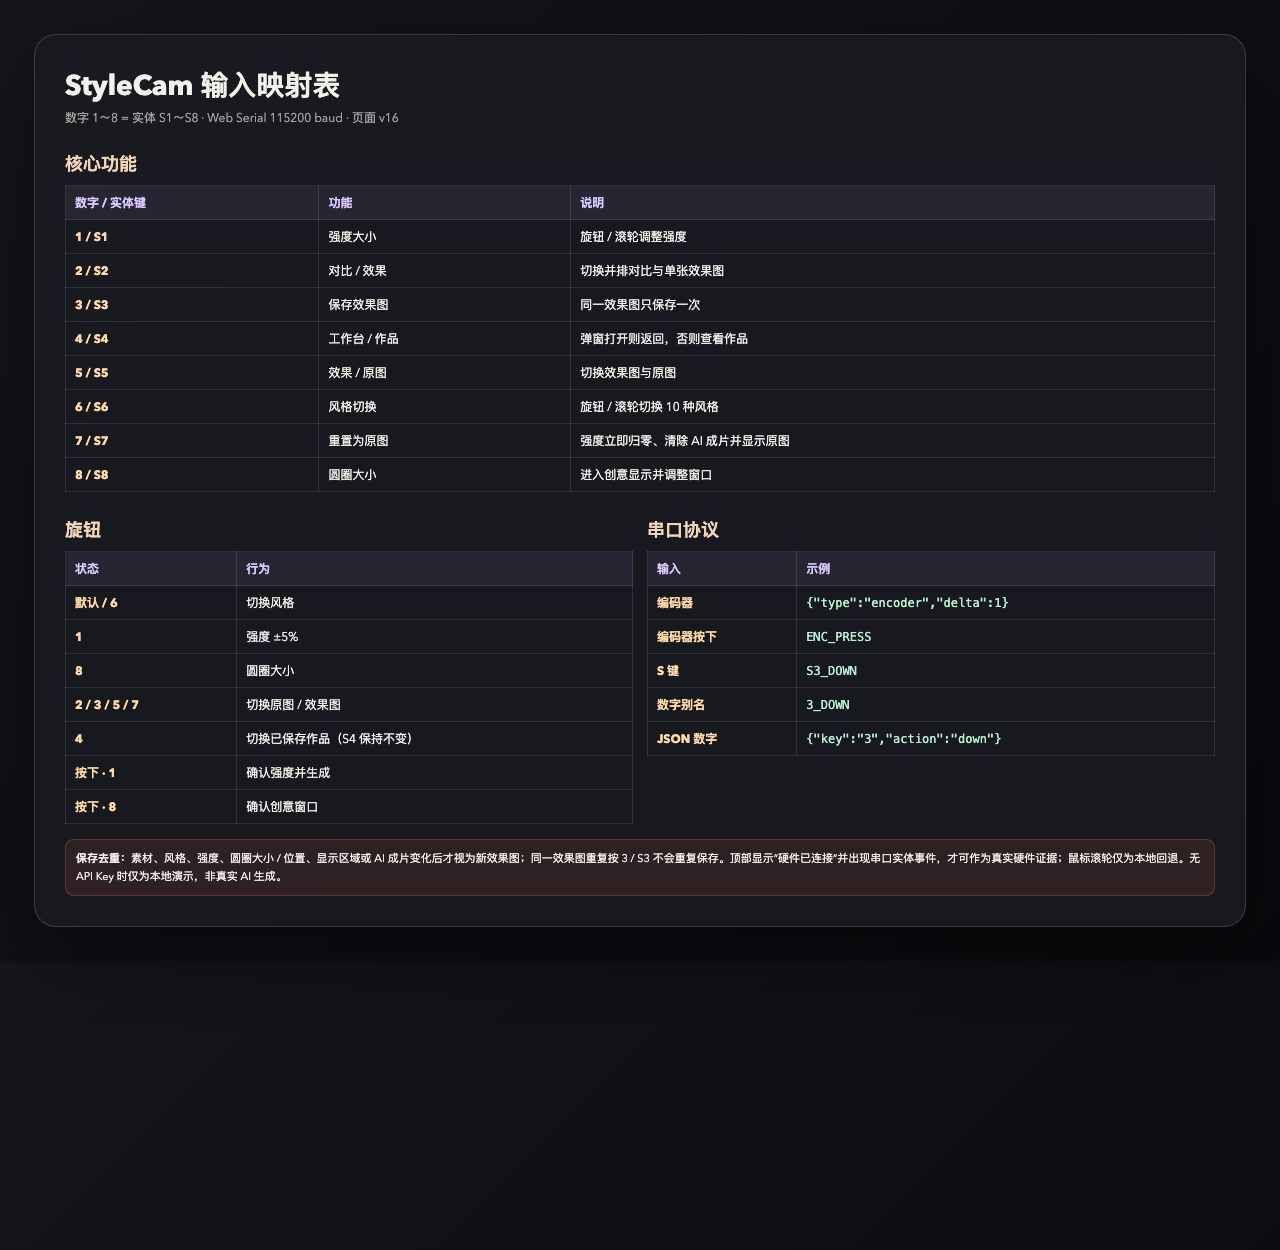
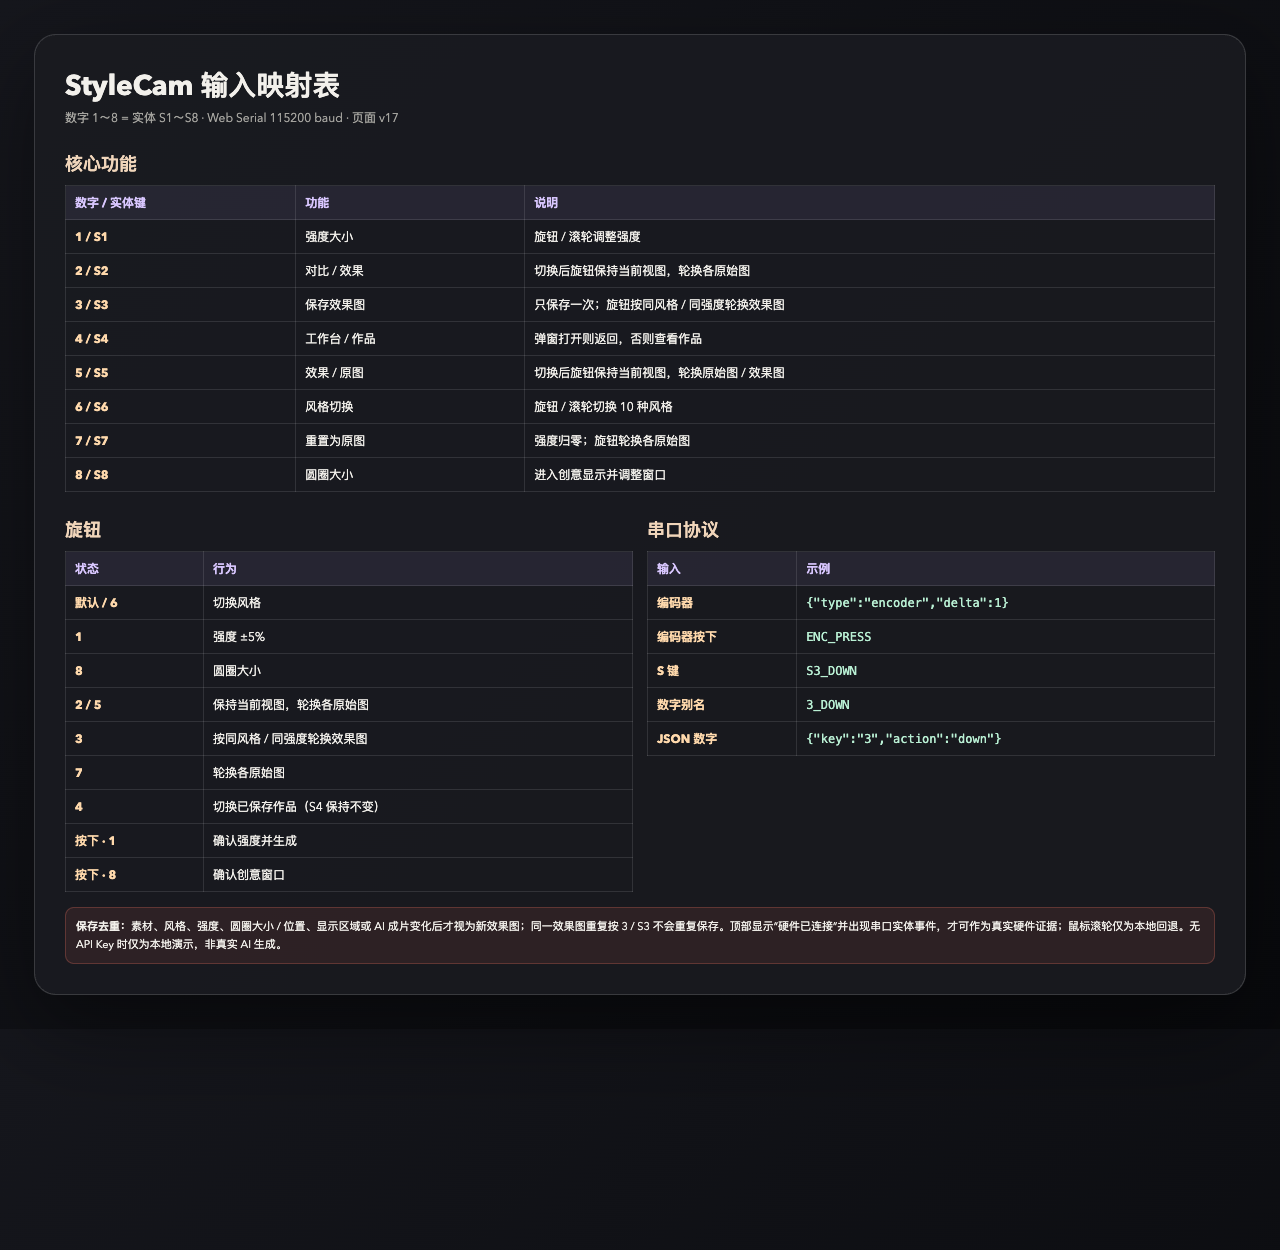
Add source browsing modes and tidy initial layout

Changed region(s): [[0.0312, 0.4368, 0.9688, 0.78], [0.4062, 0.156, 0.625, 0.4056], [0.2188, 0.156, 0.3125, 0.4056]]

diff --git a/app.js b/app.js
@@ -18,6 +18,7 @@
     { id: 'strength', name: '强度大小' },
     { id: 'style', name: '风格切换' },
     { id: 'radius', name: '圆圈大小' },
+    { id: 'source', name: '轮换照片' },
     { id: 'view', name: '原图 / 效果' },
     { id: 'works', name: '查看作品' }
   ];
@@ -120,6 +121,7 @@
   const works = [];
   let sourcesOrganized = false;
   let worksOrganized = false;
+  let inputCommandSerial = 0;
   const aiPipeline = {
     checking: true,
     available: false,
@@ -1261,13 +1263,13 @@
     state.strengthTarget = 0;
     state.strength = 0;
     setView('original');
-    setMode('view');
-    updateUi();
-    showTap('效果图已重置为原图');
+    setMode('source');
+    showTap('已重置为原图；旋钮轮换各张原始图');
   }
 
   function runInputCommand(command) {
     if (aiPipeline.generating && command !== 'works' && command !== 'compare' && command !== 'original') return;
+    const commandSerial = ++inputCommandSerial;
     switch (command) {
       case 'strength':
         setCreativeDisplay(false);
@@ -1277,19 +1279,23 @@
         break;
       case 'compare':
         setView(state.view === 'compare' ? 'effect' : 'compare');
-        setMode('view');
+        setMode('source');
+        showTap(state.view === 'compare' ? '旋钮轮换各张对比图' : '旋钮轮换各张效果图');
         if (elements.workDialog.open) flashComparison();
         break;
       case 'save':
-        if (elements.workDialog.open && dialogContext.work && !dialogContext.saved) {
-          void saveWork({ work: dialogContext.work }).then(work => {
-            if (work) setMode('view');
-          });
-        } else {
-          void saveWork().then(work => {
-            if (work) setMode('view');
-          });
-        }
+        const savePreview = elements.workDialog.open && dialogContext.work && !dialogContext.saved;
+        const savePromise = savePreview
+          ? saveWork({ work: dialogContext.work })
+          : saveWork();
+        void savePromise.then(work => {
+          if (!work || commandSerial !== inputCommandSerial) return;
+          if (elements.workDialog.open) elements.workDialog.close();
+          setCreativeDisplay(false);
+          setView('effect');
+          setMode('source');
+          showTap('已保存；旋钮按同风格 / 同强度轮换效果图');
+        });
         break;
       case 'works':
         // S4 keeps its dedicated behavior: close an open preview or browse works.
@@ -1307,7 +1313,8 @@
         break;
       case 'original':
         setView(state.view === 'original' ? 'effect' : 'original');
-        setMode('view');
+        setMode('source');
+        showTap(state.view === 'original' ? '旋钮轮换各张效果图' : '旋钮轮换各张原始图');
         break;
       case 'style':
         setCreativeDisplay(false);
@@ -1756,13 +1763,19 @@
     updateHardwareUi();
   }
 
+  function sourceModeLabel() {
+    if (state.view === 'compare') return '轮换对比图';
+    if (state.view === 'original') return '轮换原始图';
+    return '轮换效果图';
+  }
+
   function setMode(mode) {
     state.mode = mode;
     elements.functionGrid.querySelectorAll('.function-button').forEach(button => {
       button.classList.toggle('active', button.dataset.mode === mode);
     });
     const current = MODES.find(item => item.id === mode);
-    elements.modeName.textContent = current?.name ?? '';
+    elements.modeName.textContent = mode === 'source' ? sourceModeLabel() : current?.name ?? '';
     updateUi();
     if (mode === 'works') browseWorks(0);
   }
@@ -2091,6 +2104,7 @@
     installHardwareBridge();
     installStageDrag();
     installDialDrag();
+    setView('effect');
     setMode('style');
     updateCounts();
     void detectAiService();
@@ -2098,11 +2112,23 @@
     // Static portraits still pass through the same decode boundary before WebGL
     // upload, preventing INVALID_VALUE from incompletely decoded textures.
     const samples = await loadDefaultPortraits();
+    sourcesOrganized = true;
+    worksOrganized = true;
     samples.forEach(sample => addSource(sample));
     selectSource(0);
+    organizeSources();
+    sources.forEach(source => {
+      if (source.targetX === null || source.targetY === null) return;
+      source.x = source.targetX;
+      source.y = source.targetY;
+      source.angle = 0;
+      source.vx = 0;
+      source.vy = 0;
+      source.element.style.transform = `translate3d(${source.x.toFixed(2)}px, ${source.y.toFixed(2)}px, 0) rotate(0deg)`;
+    });
     updateUi();
     requestAnimationFrame(frame);
-    showTap('已载入 10 张默认肖像，可拖入照片替换');
+    showTap('已载入 10 张默认肖像，已保持整理状态');
   }
 
   void init();

diff --git a/docs/homework/input-mapping.html b/docs/homework/input-mapping.html
@@ -6,8 +6,8 @@ h1{margin:0 0 4px;font-size:28px}h2{margin:25px 0 8px;font-size:18px;color:#f0d5
 table{width:100%;border-collapse:collapse;margin-top:8px;font-size:12px}th,td{padding:8px 9px;border:1px solid rgba(255,255,255,.11);text-align:left}th{color:#d9c7ff;background:rgba(159,140,216,.10)}td:first-child{color:#ffd9ac;font-weight:700}
 .note{margin-top:15px;padding:10px;border-radius:9px;background:rgba(226,109,92,.10);border:1px solid rgba(226,109,92,.28);font-size:11px;line-height:1.6}.cols{display:grid;grid-template-columns:1fr 1fr;gap:14px}
 code{font-family:ui-monospace,Menlo,monospace;color:#b9f0d4}
-</style><div class="sheet"><h1>StyleCam 输入映射表</h1><div class="meta">数字 1～8 = 实体 S1～S8 · Web Serial 115200 baud · 页面 v16</div>
-<h2>核心功能</h2><table><tr><th>数字 / 实体键</th><th>功能</th><th>说明</th></tr><tr><td>1 / S1</td><td>强度大小</td><td>旋钮 / 滚轮调整强度</td></tr><tr><td>2 / S2</td><td>对比 / 效果</td><td>切换并排对比与单张效果图</td></tr><tr><td>3 / S3</td><td>保存效果图</td><td>同一效果图只保存一次</td></tr><tr><td>4 / S4</td><td>工作台 / 作品</td><td>弹窗打开则返回，否则查看作品</td></tr><tr><td>5 / S5</td><td>效果 / 原图</td><td>切换效果图与原图</td></tr><tr><td>6 / S6</td><td>风格切换</td><td>旋钮 / 滚轮切换 10 种风格</td></tr><tr><td>7 / S7</td><td>重置为原图</td><td>强度立即归零、清除 AI 成片并显示原图</td></tr><tr><td>8 / S8</td><td>圆圈大小</td><td>进入创意显示并调整窗口</td></tr></table>
-<div class="cols"><div><h2>旋钮</h2><table><tr><th>状态</th><th>行为</th></tr><tr><td>默认 / 6</td><td>切换风格</td></tr><tr><td>1</td><td>强度 ±5%</td></tr><tr><td>8</td><td>圆圈大小</td></tr><tr><td>2 / 3 / 5 / 7</td><td>切换原图 / 效果图</td></tr><tr><td>4</td><td>切换已保存作品（S4 保持不变）</td></tr><tr><td>按下 · 1</td><td>确认强度并生成</td></tr><tr><td>按下 · 8</td><td>确认创意窗口</td></tr></table></div>
+</style><div class="sheet"><h1>StyleCam 输入映射表</h1><div class="meta">数字 1～8 = 实体 S1～S8 · Web Serial 115200 baud · 页面 v17</div>
+<h2>核心功能</h2><table><tr><th>数字 / 实体键</th><th>功能</th><th>说明</th></tr><tr><td>1 / S1</td><td>强度大小</td><td>旋钮 / 滚轮调整强度</td></tr><tr><td>2 / S2</td><td>对比 / 效果</td><td>切换后旋钮保持当前视图，轮换各原始图</td></tr><tr><td>3 / S3</td><td>保存效果图</td><td>只保存一次；旋钮按同风格 / 同强度轮换效果图</td></tr><tr><td>4 / S4</td><td>工作台 / 作品</td><td>弹窗打开则返回，否则查看作品</td></tr><tr><td>5 / S5</td><td>效果 / 原图</td><td>切换后旋钮保持当前视图，轮换原始图 / 效果图</td></tr><tr><td>6 / S6</td><td>风格切换</td><td>旋钮 / 滚轮切换 10 种风格</td></tr><tr><td>7 / S7</td><td>重置为原图</td><td>强度归零；旋钮轮换各原始图</td></tr><tr><td>8 / S8</td><td>圆圈大小</td><td>进入创意显示并调整窗口</td></tr></table>
+<div class="cols"><div><h2>旋钮</h2><table><tr><th>状态</th><th>行为</th></tr><tr><td>默认 / 6</td><td>切换风格</td></tr><tr><td>1</td><td>强度 ±5%</td></tr><tr><td>8</td><td>圆圈大小</td></tr><tr><td>2 / 5</td><td>保持当前视图，轮换各原始图</td></tr><tr><td>3</td><td>按同风格 / 同强度轮换效果图</td></tr><tr><td>7</td><td>轮换各原始图</td></tr><tr><td>4</td><td>切换已保存作品（S4 保持不变）</td></tr><tr><td>按下 · 1</td><td>确认强度并生成</td></tr><tr><td>按下 · 8</td><td>确认创意窗口</td></tr></table></div>
 <div><h2>串口协议</h2><table><tr><th>输入</th><th>示例</th></tr><tr><td>编码器</td><td><code>{"type":"encoder","delta":1}</code></td></tr><tr><td>编码器按下</td><td><code>ENC_PRESS</code></td></tr><tr><td>S 键</td><td><code>S3_DOWN</code></td></tr><tr><td>数字别名</td><td><code>3_DOWN</code></td></tr><tr><td>JSON 数字</td><td><code>{"key":"3","action":"down"}</code></td></tr></table></div></div>
 <div class="note"><strong>保存去重：</strong>素材、风格、强度、圆圈大小 / 位置、显示区域或 AI 成片变化后才视为新效果图；同一效果图重复按 3 / S3 不会重复保存。顶部显示“硬件已连接”并出现串口实体事件，才可作为真实硬件证据；鼠标滚轮仅为本地回退。无 API Key 时仅为本地演示，非真实 AI 生成。</div></div>

diff --git a/index.html b/index.html
@@ -33,7 +33,7 @@
         <div class="deck-head">
           <div>
             <strong>原始照片</strong>
-            <small>拖入肖像 · 点击选择 · 可自然拖放</small>
+            <small>初始已整理 · 拖入肖像 · 点击选择</small>
           </div>
           <div class="deck-actions">
             <button id="upload-button" class="quiet-button" type="button">导入照片</button>
@@ -119,7 +119,9 @@
 
           <div class="control-hints">
             <span>1 / 6 / 8 选择旋钮调节对象</span>
-            <span>2 / 3 / 5 / 7 后旋钮切换原图 / 效果</span>
+            <span>2 / 5 后旋钮轮换各原始图 / 效果图</span>
+            <span>3 保存后旋钮按同设置轮换效果图</span>
+            <span>7 重置后旋钮轮换各原始图</span>
             <span>4 / S4 保持工作台 / 作品切换</span>
             <span>3 只保存一次，新效果图出现后恢复</span>
             <span>8 后滚轮调窗口，按住圆心可拖动</span>
@@ -141,7 +143,7 @@
         <div class="deck-head">
           <div>
             <strong>满意照片</strong>
-            <small>保存后自然落下 · 点击查看与下载</small>
+            <small>保存后保持整理 · 点击查看与下载</small>
           </div>
           <div class="deck-actions">
             <span id="works-label">0 / 24</span>

diff --git a/docs/homework/demo-script.md b/docs/homework/demo-script.md
@@ -6,19 +6,19 @@
 
 | 时间 | 画面与操作 | 必须可见 |
 | --- | --- | --- |
-| 00:00–00:08 | 打开 `http://127.0.0.1:4174/?v=16`；点击“连接设备”，选择 EasyInput 串口 | 顶部“硬件已连接”和串口实体事件 |
+| 00:00–00:08 | 打开 `http://127.0.0.1:4174/?v=17`；点击“连接设备”，选择 EasyInput 串口 | 顶部“硬件已连接”和串口实体事件 |
 | 00:08–00:16 | 点击“导入照片”，选择自己的肖像素材 | 上传文件名 / 原图出现在工作台 |
 | 00:16–00:26 | 默认状态下转动实体旋钮，浏览至少 3 种风格 | `风格切换` 和风格名称变化 |
 | 00:26–00:38 | 按 `1 / S1` 选择强度；旋钮调整；旋钮按下确认生成 | `强度大小`、强度百分比、生成状态提示 |
 | 00:38–00:50 | 等待生成完成，画面自动放大 | 原图与“本地演示成片”并排显示 |
-| 00:50–01:00 | 按 `2 / S2` 切换对比 / 效果；按 `5 / S5` 切换效果 / 原图 | 视图切换且颜色不变暗 |
+| 00:50–01:00 | 按 `2 / S2`、`5 / S5` 切换视图，并转动旋钮轮换各原始图 | 视图保持正确，素材编号连续变化 |
 | 01:00–01:10 | 按 `3 / S3` 保存；再按一次证明已置灰；按 `4 / S4` 返回工作台 | 下方只新增一张，重复保存无效 |
 | 01:10–01:26 | 按 `8 / S8` 进入创意显示；旋钮调窗口；按住圆心拖动 | `圆圈大小`、圆形边界和位置变化 |
 | 01:26–01:32 | 按 `4 / S4` 返回；展示作品区或再次查看作品 | 回到工作台 / 作品对比 |
 
 ## 口播参考
 
-> 我用 EasyInput 的串口输入桥连接网页。数字 1 到 8 分别对应 S1 到 S8。上传自己的照片后，默认旋钮选择风格；1 进入强度调整，旋钮微调后按下确认。当前没有配置 API Key，所以生成的是本地演示成片，只验证交互链路，不代表真实 AI 生成成功。生成后自动放大，2 切换对比，5 切换原图，3 保存且同一效果只保存一次，4 返回。最后按 8 进入创意显示，用旋钮和鼠标调整圆形窗口。
+> 我用 EasyInput 的串口输入桥连接网页。数字 1 到 8 分别对应 S1 到 S8。上传自己的照片后，默认旋钮选择风格；1 进入强度调整，旋钮微调后按下确认。当前没有配置 API Key，所以生成的是本地演示成片，只验证交互链路，不代表真实 AI 生成成功。生成后自动放大，2 切换对比并轮换素材，5 切换原图并轮换素材，3 保存且同一效果只保存一次，保存后旋钮可查看同设置效果图，4 返回。最后按 8 进入创意显示，用旋钮和鼠标调整圆形窗口。
 
 ## 证据检查
 

diff --git a/docs/homework/input-mapping.md b/docs/homework/input-mapping.md
@@ -1,6 +1,6 @@
 # StyleCam 输入映射表
 
-适用页面：`http://127.0.0.1:4174/?v=16`
+适用页面：`http://127.0.0.1:4174/?v=17`
 
 当前网页数字键 `1～8` 与实体键 `S1～S8` 使用同一套映射。
 
@@ -9,12 +9,12 @@
 | 数字键 | 实体键 | 功能 | 说明 |
 | --- | --- | --- | --- |
 | `1` | `S1` | 强度大小 | 选中后旋钮 / 滚轮调整强度 |
-| `2` | `S2` | 切换 对比图 / 效果图 | 在并排对比与单张效果图间切换 |
-| `3` | `S3` | 保存效果图 | 同一效果图只保存一次；新效果图出现后按钮恢复 |
+| `2` | `S2` | 切换 对比图 / 效果图 | 切换后旋钮保持当前视图，轮换各原始图 |
+| `3` | `S3` | 保存效果图 | 只保存一次；随后旋钮按同风格 / 同强度轮换各原始图效果图 |
 | `4` | `S4` | 回到工作台 / 查看作品 | 弹窗打开时返回；未打开时查看已保存作品 |
-| `5` | `S5` | 切换 效果图 / 原图 | 在效果图与原图间切换 |
+| `5` | `S5` | 切换 效果图 / 原图 | 切换后旋钮保持当前视图，轮换各原始图或对应效果图 |
 | `6` | `S6` | 风格切换 | 选中后旋钮 / 滚轮切换 10 种风格 |
-| `7` | `S7` | 效果图重置为原图 | 强度立即归零、清除当前 AI 成片并显示原图 |
+| `7` | `S7` | 效果图重置为原图 | 强度归零并显示原图；随后旋钮轮换各原始图 |
 | `8` | `S8` | 圆圈大小 | 进入创意显示；旋钮 / 滚轮调整圆形窗口 |
 
 ## 二、旋钮行为
@@ -24,7 +24,10 @@
 | 默认 / `6 风格切换` | 上一个 / 下一个风格 |
 | `1 强度大小` | 强度 -5% / +5% |
 | `8 圆圈大小` | 圆圈缩小 / 放大 |
-| `2 / 3 / 5 / 7 原图 / 效果` | 在原图与效果图间切换 |
+| `2 对比 / 效果` | 保持当前视图，轮换各原始图的对比图或效果图 |
+| `3 保存效果图` | 按同一风格、强度与圆形参数轮换各原始图效果图 |
+| `5 原图 / 效果` | 保持当前视图，轮换各原始图或对应效果图 |
+| `7 重置为原图` | 轮换各原始图 |
 | `4 查看作品` | 上一个 / 下一个作品（S4 功能保持不变） |
 
 旋钮按下：

diff --git a/README.md b/README.md
@@ -5,7 +5,7 @@ A portrait style workbench with:
 - 10 real-time WebGL style previews
 - circular inside/outside editing
 - original/result comparison
-- natural source and finished-print surfaces
+- tidy, compact source and finished-print surfaces
 - an optional AI image generation pipeline
 - a clearly labeled local demo mode when no API key is configured
 
@@ -15,7 +15,7 @@ A portrait style workbench with:
 npm start
 ```
 
-Open <http://127.0.0.1:4174/?v=16>.
+Open <http://127.0.0.1:4174/?v=17>.
 
 ## Optional AI mode
 
